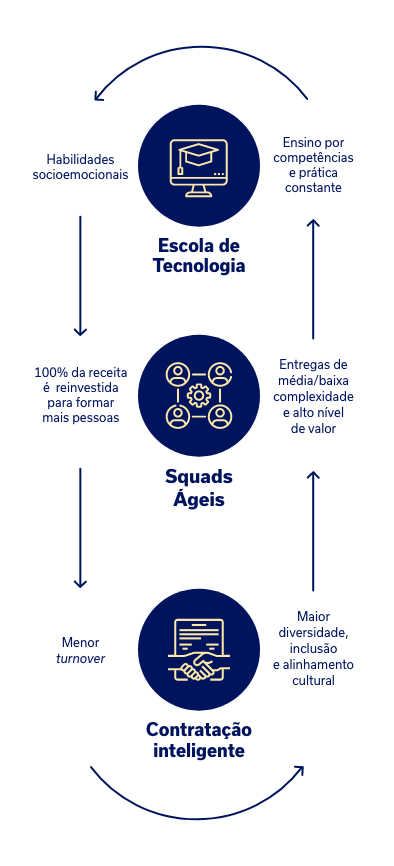
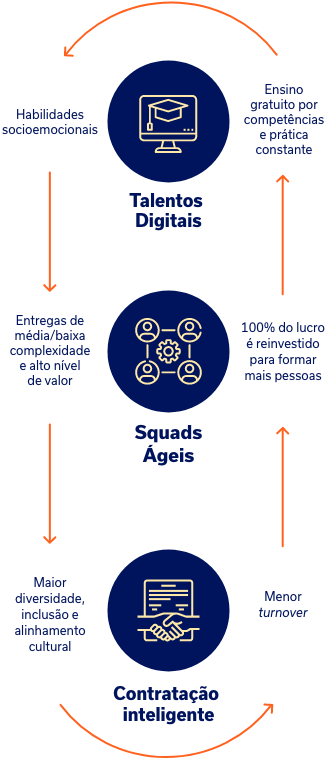
Adjustments responsive page model

diff --git a/src/components/model/siaas/index.js b/src/components/model/siaas/index.js
@@ -2,7 +2,7 @@ import React from 'react';
 import * as S from './styles';
 
 import Infografico from '../../../images/images/Infografica-SIaaS.png';
-import InfograficoResponsive from '../../../images/images/Group11422.png';
+import InfograficoResponsive from '../../../images/images/SIaaS-Mobile.png';
 
 const SocialImpact = () => (
   <S.SocialImpact>
